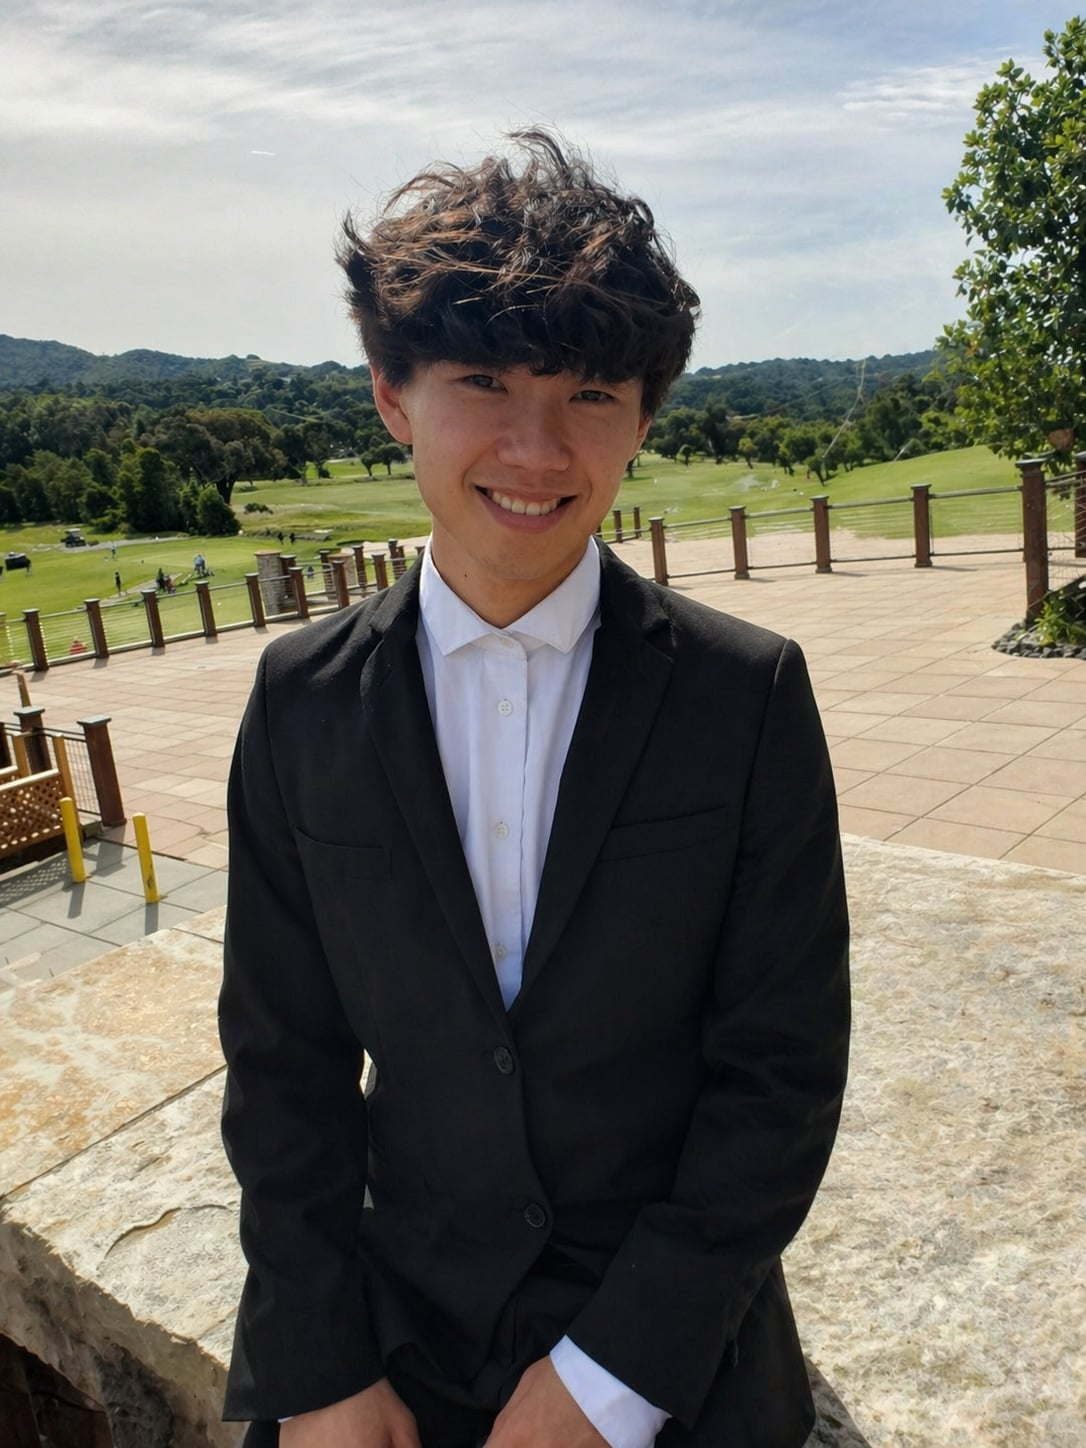
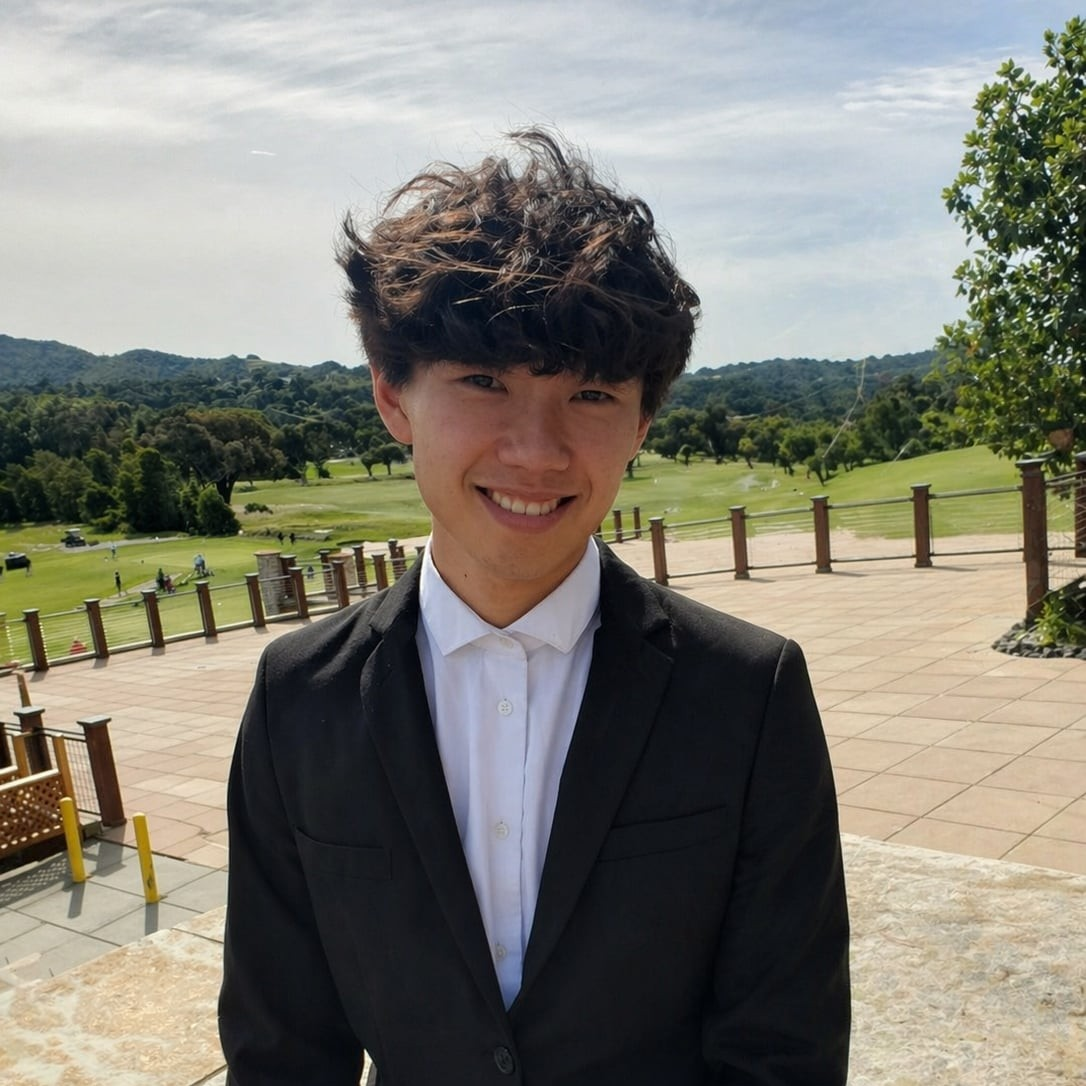
Updated staff pictures for Fa26

diff --git a/_legacy_staffers/John_Lomax.md b/_legacy_staffers/John_Lomax.md
@@ -4,5 +4,4 @@ role: Instructor
 photo: john_cole_lomax.jpeg
 ---
 
-Senior EECS Undergrad\
-I work on drones with UAVs@Berkeley and lead IEEE's Advanced PCB Design Decal, APE.
+Fa23-Sp25

diff --git a/_staffers/Aarav_Singh.md b/_staffers/Aarav_Singh.md
@@ -4,4 +4,4 @@ role: Instructor
 photo: aarav_singh.jpg
 ---
 
-4th year EECS. I play badminton and LoL
+4th year EECS. I play badminton, Pokemon and LoL

diff --git a/_staffers/Mackenzie_Chan.md b/_staffers/Mackenzie_Chan.md
@@ -1,0 +1,7 @@
+---
+name: Mackenzie Chan
+role: Instructor
+photo: Mackenzie_Chan.jpg
+---
+
+2nd year EECS, I like art, photography, & archery!

diff --git a/_staffers/Sasan_Liaw.md b/_staffers/Sasan_Liaw.md
@@ -1,0 +1,7 @@
+---
+name: Sasan Liaw
+role: Instructor
+photo: Sasan_Liaw.png
+---
+
+3rd year EECS. A fan of art, tacos, and capybaras.

diff --git a/_staffers/Enron_Nguyen.md b/_staffers/Enron_Nguyen.md
@@ -1,0 +1,7 @@
+---
+name: Enron Nguyen
+role: Instructor
+photo: Enron_Nguyen.png
+---
+
+EECS Senior, I like coffee and working out

diff --git a/_legacy_staffers/Rick_Huang.md b/_legacy_staffers/Rick_Huang.md
@@ -4,4 +4,4 @@ role: Instructor
 photo: rick_huang.jpeg
 ---
 
-Super Senior EECS; formerly MechE but now redeemed
+Sp25-Fa25

diff --git a/_legacy_staffers/Janus_Sucharitakul.md b/_legacy_staffers/Janus_Sucharitakul.md
@@ -4,4 +4,4 @@ role: Instructor
 photo: Janus_Sucharitakul.jpg
 ---
 
-Circuits, circuits, & more circuits
+Sp24-Sp26

diff --git a/_legacy_staffers/Alek_Norman.md b/_legacy_staffers/Alek_Norman.md
@@ -4,4 +4,4 @@ role: Instructor
 photo: alek_norman.webp
 ---
 
-Circuits, circuits, & more circuits 
+Fa24-Sp26 

diff --git a/_staffers/Aditya_Patra.md b/_staffers/Aditya_Patra.md
@@ -1,0 +1,7 @@
+---
+name: Aditya Patra
+role: Instructor
+photo: Aditya_Patra.jpeg
+---
+
+1st Year HOPE Staff

diff --git a/_staffers/Katherine_Chen.md b/_staffers/Katherine_Chen.md
@@ -1,0 +1,7 @@
+---
+name: Katherine Chen
+role: Instructor
+photo: Katherine_Chen.png
+---
+
+I hope I HOPE

diff --git a/_staffers/Matthew_Lee.md b/_staffers/Matthew_Lee.md
@@ -1,0 +1,7 @@
+---
+name: Matthew Lee
+role: Instructor
+photo: Matthew_Lee.jpeg
+---
+
+hi everyone~~

diff --git a/_legacy_staffers/Charles_Paxson.md b/_legacy_staffers/Charles_Paxson.md
@@ -4,4 +4,4 @@ role: Instructor
 photo: charles_paxson.webp
 ---
 
-5th Year Master MechE
+Fa24-Fa25
